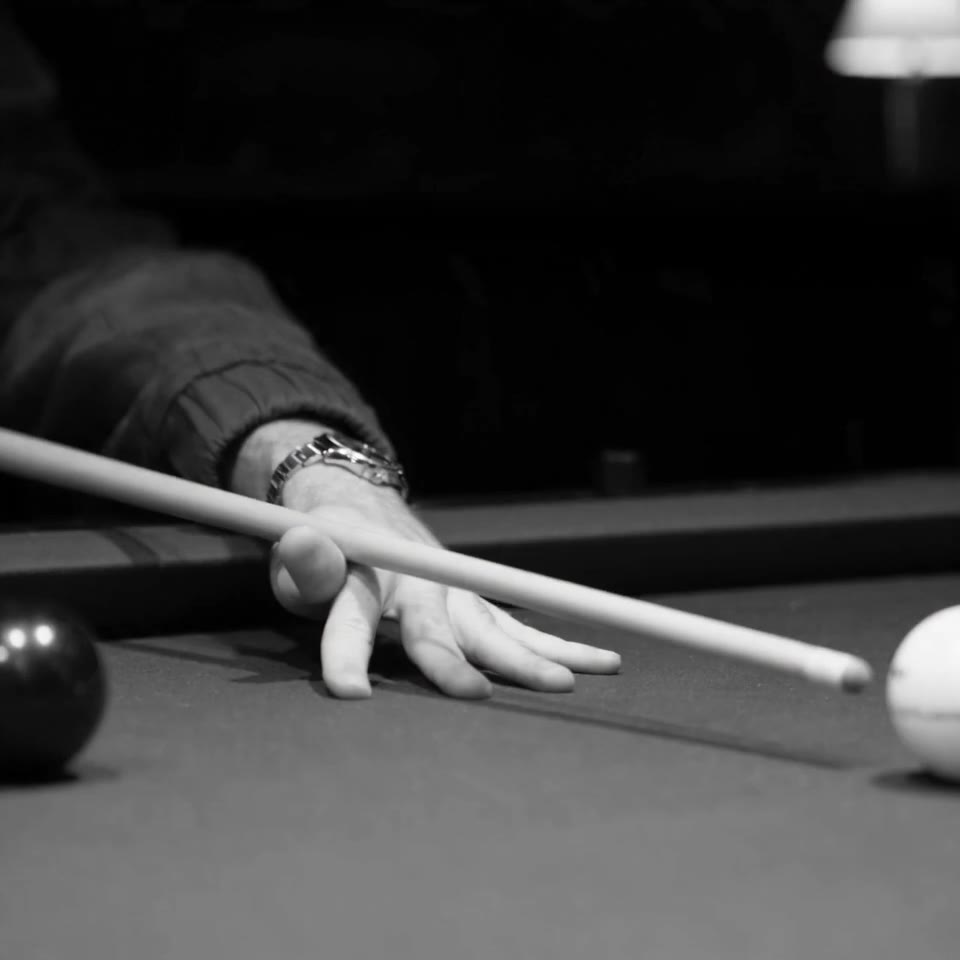
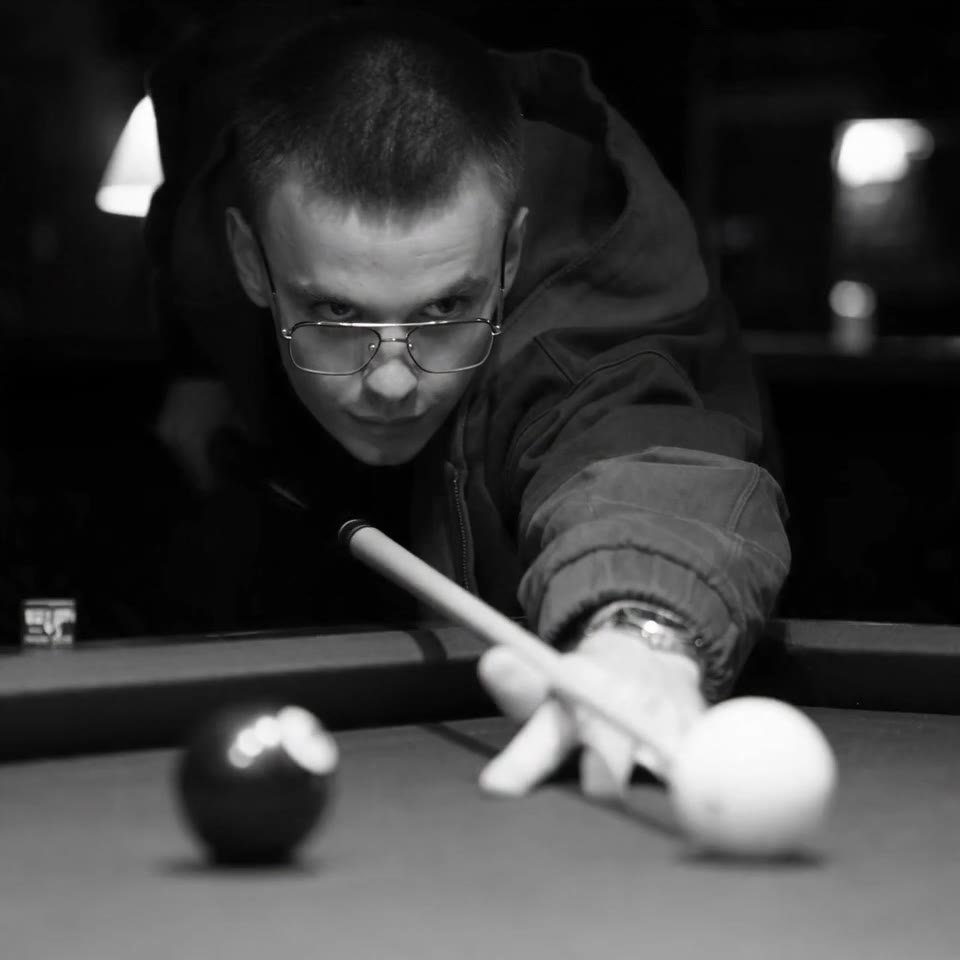
mono-case: новые постер и превью — кадр с кием и лицом
Старый постер — рука с кием крупно, превью в сетке — рука с телефоном на
переднем плане. Новый кадр 1.6 с: парень целится, в кадре лицо, кий и
шары. Постер 960×960, превью 4:5 800×1000; ссылки с ?v= против кэша.

Claude-Session: https://claude.ai/code/session_01Dhaw45iy4EiyF8Nuysjmv4

diff --git a/video.html b/video.html
@@ -32,7 +32,7 @@
         <a class="vtile" role="button" tabindex="0" data-h264="assets/videos/asmr-olive.h264.mp4" data-av1="assets/videos/asmr-olive.av1.mp4" data-poster="assets/posters/asmr-olive.jpg" data-caption="Творческая работа"><img src="assets/thumbs/asmr-olive.webp" alt="" loading="lazy" decoding="async" width="800" height="1000"></a>
         <a class="vtile" role="button" tabindex="0" data-h264="assets/videos/lingerie-water.h264.mp4?v=20260925b" data-av1="assets/videos/lingerie-water.av1.mp4?v=20260925b" data-poster="assets/posters/lingerie-water-pool.jpg?v=20260925b" data-caption="Бренд нижнего белья @lingerie.tver" data-work="lingerie-water"><img src="assets/thumbs/lingerie-water.webp?v=20260925b" alt="" loading="lazy" decoding="async" width="800" height="1000"></a>
         <a class="vtile" role="button" tabindex="0" data-h264="assets/videos/racing-case.h264.mp4" data-av1="assets/videos/racing-case.av1.mp4" data-poster="assets/posters/racing-case.jpg" data-caption="Творческая работа"><img src="assets/thumbs/racing-case.webp" alt="" loading="lazy" decoding="async" width="800" height="1000"></a>
-        <a class="vtile" role="button" tabindex="0" data-h264="assets/videos/mono-case.h264.mp4" data-av1="assets/videos/mono-case.av1.mp4" data-poster="assets/posters/mono-case.jpg" data-caption="Творческая работа"><img src="assets/thumbs/mono-case.webp" alt="" loading="lazy" decoding="async" width="800" height="1000"></a>
+        <a class="vtile" role="button" tabindex="0" data-h264="assets/videos/mono-case.h264.mp4" data-av1="assets/videos/mono-case.av1.mp4" data-poster="assets/posters/mono-case.jpg?v=20260925c" data-caption="Творческая работа"><img src="assets/thumbs/mono-case.webp?v=20260925c" alt="" loading="lazy" decoding="async" width="800" height="1000"></a>
         <template class="slot" data-probe="assets/videos/niche-fashion.h264.mp4"><a class="vtile" role="button" tabindex="0" data-h264="assets/videos/niche-fashion.h264.mp4" data-av1="assets/videos/niche-fashion.av1.mp4" data-poster="assets/posters/niche-fashion.jpg" data-caption="Творческая работа"><img src="assets/thumbs/niche-fashion.webp" alt="" loading="lazy" decoding="async" width="800" height="1000"></a></template>
         <template class="slot" data-probe="assets/videos/niche-jewelry.h264.mp4"><a class="vtile" role="button" tabindex="0" data-h264="assets/videos/niche-jewelry.h264.mp4" data-av1="assets/videos/niche-jewelry.av1.mp4" data-poster="assets/posters/niche-jewelry.jpg" data-caption="Творческая работа"><img src="assets/thumbs/niche-jewelry.webp" alt="" loading="lazy" decoding="async" width="800" height="1000"></a></template>
         <template class="slot" data-probe="assets/videos/niche-beauty.h264.mp4"><a class="vtile" role="button" tabindex="0" data-h264="assets/videos/niche-beauty.h264.mp4" data-av1="assets/videos/niche-beauty.av1.mp4" data-poster="assets/posters/niche-beauty.jpg" data-caption="Творческая работа"><img src="assets/thumbs/niche-beauty.webp" alt="" loading="lazy" decoding="async" width="800" height="1000"></a></template>

diff --git a/price.html b/price.html
@@ -64,7 +64,7 @@
         <ul><li>Согласованный объём роликов и фото каждый месяц</li><li>Единый визуальный стиль всех материалов</li><li>Приоритет в графике</li><li>2 раунда правок на каждую работу</li></ul>
         <p class="time"><span>Сроки</span>по графику, согласованному заранее</p>
       </div>
-      <div class="visual"><a class="vtile wide square" role="button" tabindex="0" data-h264="assets/videos/mono-case.h264.mp4" data-av1="assets/videos/mono-case.av1.mp4" data-poster="assets/posters/mono-case.jpg" data-caption="Творческая работа"><video poster="assets/posters/mono-case.jpg" preload="none" muted loop playsinline><source src="assets/videos/mono-case.h264.mp4" type="video/mp4; codecs=avc1.4d401f"><source src="assets/videos/mono-case.av1.mp4" type="video/mp4; codecs=av01.0.05M.08"></video></a></div>
+      <div class="visual"><a class="vtile wide square" role="button" tabindex="0" data-h264="assets/videos/mono-case.h264.mp4" data-av1="assets/videos/mono-case.av1.mp4" data-poster="assets/posters/mono-case.jpg?v=20260925c" data-caption="Творческая работа"><video poster="assets/posters/mono-case.jpg?v=20260925c" preload="none" muted loop playsinline><source src="assets/videos/mono-case.h264.mp4" type="video/mp4; codecs=avc1.4d401f"><source src="assets/videos/mono-case.av1.mp4" type="video/mp4; codecs=av01.0.05M.08"></video></a></div>
     </article>
   </div>
   <section class="section" aria-labelledby="how-title">
